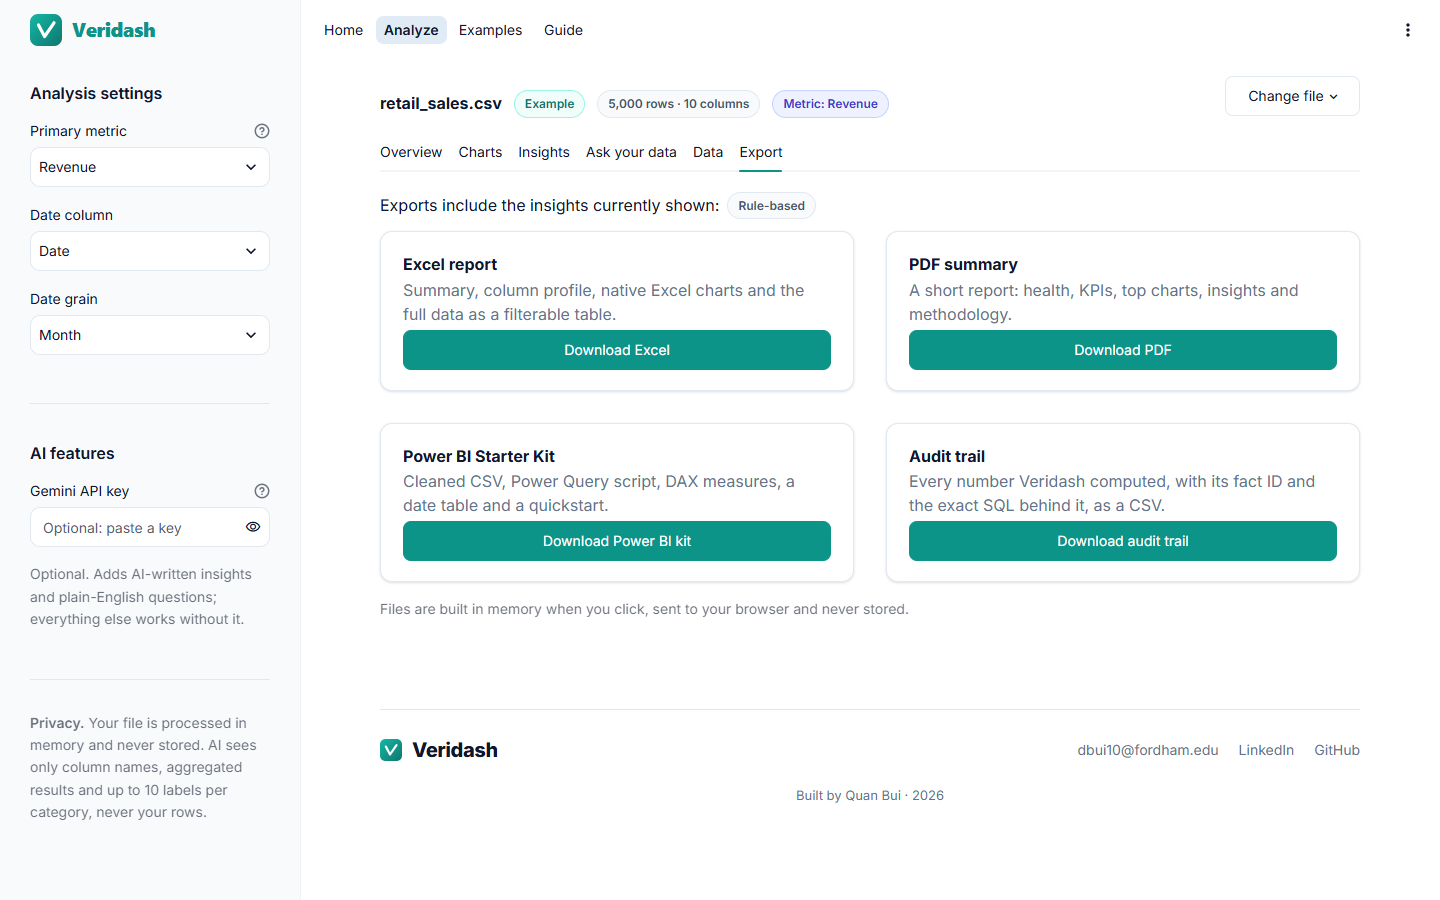
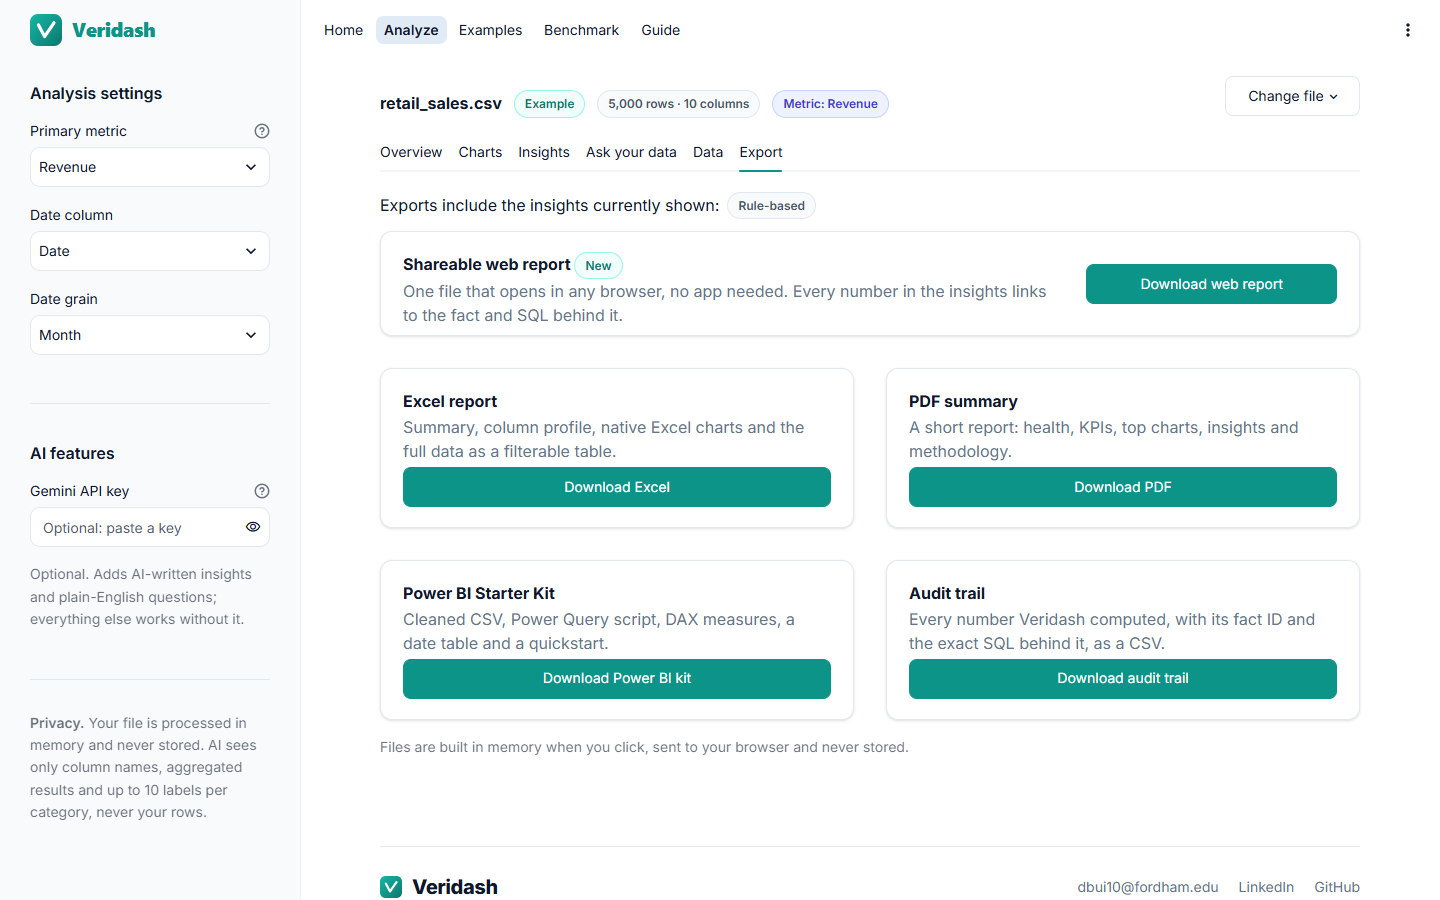
docs(readme): publish the trust benchmark scores and the web report
Adds the benchmark results table under Testing and quality, the direction
and group checks, the web report, the benchmark in the architecture
diagram, a design decision on measuring safeguards, and new screenshots.
Replaces the finished dark mode roadmap item.

diff --git a/README.md b/README.md
@@ -4,7 +4,9 @@
 
 Veridash turns a clean CSV or Excel file into a health check, a column profile, recommended charts and KPIs,
 written insights and ready-to-use exports in seconds. Every number is computed by code and shown next to the
-exact query that produced it, and any AI-written sentence is fact-checked against those results.
+exact query that produced it, and any AI-written sentence is fact-checked against those results. A public
+trust benchmark measures how well those checks work: the fact-check catches 96.0% of
+1,004 planted wrong numbers with 0 false alarms.
 
 **Live demo:** [veridash.streamlit.app](https://veridash.streamlit.app)
 
@@ -42,8 +44,8 @@ exports for Excel, PDF and Power BI. It is built on three pillars:
   fact-checked number by number.
 - **Private by design:** files are processed in memory and never stored, and the AI sees only the schema and
   aggregated statistics, never raw rows.
-- **Export to your tools:** results leave the app as an Excel report with native charts, a PDF summary or a
-  Power BI Starter Kit.
+- **Export to your tools:** results leave the app as a shareable web report, an Excel report with native
+  charts, a PDF summary or a Power BI Starter Kit.
 
 ## Goals
 
@@ -52,6 +54,7 @@ exports for Excel, PDF and Power BI. It is built on three pillars:
 - **Use AI only where it adds value,** for selecting and explaining facts, never for calculating them.
 - **Respect privacy by default** by keeping files in memory and sending only summaries to the AI.
 - **Hand off cleanly** to the tools analysts already use: Excel, PDF and Power BI.
+- **Measure the safeguards** instead of just describing them, and publish the results.
 
 ---
 
@@ -81,6 +84,8 @@ exports for Excel, PDF and Power BI. It is built on three pillars:
 - **Citations:** each statement cites the computed facts it relies on.
 - **Fact-check badge:** every number in the AI's text is matched to a computed fact, allowing for rounding, and
   the badge reports the result, for example "Verified numbers: 12/12". Unverified numbers are highlighted, not hidden.
+- **Direction and group checks:** a stated direction must be right ("rose 1.1%" fails for a fall), and a group's
+  number must belong to the group named next to it ("Electronics comes to $209.1K" fails when that is Apparel's).
 - **Eight languages:** AI insights can be written in English, Spanish, French, German, Portuguese, Italian, Dutch
   or Vietnamese. Numbers keep one format in every language, so the fact-check works the same way.
 - **Works without a key:** rule-based insights with the same structure are always available.
@@ -93,7 +98,9 @@ exports for Excel, PDF and Power BI. It is built on three pillars:
 - **Transparent results:** the SQL, the result table and an automatic chart are shown together.
 - **SQL mode:** without a key, users can write their own queries under the same safety rules.
 
-### Exports: Excel, PDF, the Power BI Starter Kit and an audit trail
+### Exports: a web report, Excel, PDF, the Power BI Starter Kit and an audit trail
+- **Shareable web report:** one HTML file that opens in any browser with no app, account or internet. It has
+  the KPIs, health check, charts and insights, and every verified number links to the fact and SQL behind it.
 - **Excel report:** a summary sheet, the column profile, one sheet per chart with a native Excel chart and its
   query, and the full dataset as a filterable table.
 - **PDF summary:** a two to four page report with the health score, KPIs, top charts, insights and methodology.
@@ -120,6 +127,8 @@ exports for Excel, PDF and Power BI. It is built on three pillars:
 | ![Recommended charts](docs/screenshots/charts.png) | ![Insights with verified numbers](docs/screenshots/insights.png) |
 | **Ask your data** | **Exports** |
 | ![Ask your data](docs/screenshots/ask.png) | ![Excel, PDF and Power BI exports](docs/screenshots/exports.png) |
+| **Trust benchmark** | **Shareable web report** |
+| ![Trust benchmark scores](docs/screenshots/benchmark.png) | ![Self-contained HTML report](docs/screenshots/web_report.png) |
 
 ## How it works
 
@@ -128,7 +137,7 @@ exports for Excel, PDF and Power BI. It is built on three pillars:
 3. **Explore the recommended charts and KPIs,** and open any of them to see how it was calculated.
 4. **Read the insights,** written by AI when a key is available or by rules otherwise, with every number checked.
 5. **Ask follow-up questions** in plain English or write your own query.
-6. **Export the results** to Excel, PDF or Power BI and continue the work in your usual tools.
+6. **Export the results** as a web report, or to Excel, PDF or Power BI, and continue in your usual tools.
 
 ## Architecture
 
@@ -136,8 +145,9 @@ Veridash is organised in four layers. The **interface** handles pages, navigatio
 **analysis engine** loads the file, detects column types, scores data health, and runs every calculation as
 SQL in an in-memory database that cannot read or write files. The **AI layer** receives only a "fact pack" of
 results the engine has already computed, writes insights or a query, and has every number in its output
-checked. The **exports** layer turns the same results into Excel, PDF and Power BI files without writing
-anything to disk.
+checked. The **exports** layer turns the same results into a web report and Excel, PDF and Power BI files
+without writing anything to disk. Alongside the app, a **trust benchmark** attacks the fact-check and the
+query guard and recomputes every headline number without SQL; it runs on every push.
 
 ```mermaid
 flowchart LR
@@ -150,9 +160,11 @@ flowchart LR
     F --> G
     G --> H[Streamlit interface]
     C --> H
-    H --> I[Excel · PDF · Power BI kit]
+    H --> I[Web report · Excel · PDF · Power BI kit]
     H --> J[Ask your data<br/>validated SQL]
     J --> C
+    K[Trust benchmark<br/>runs in CI] -.-> G
+    K -.-> J
 ```
 
 ## Key design decisions
@@ -168,6 +180,9 @@ flowchart LR
   personal and sensitive records private and keeps prompts small and fast.
 - **A Power BI kit instead of a .pbix.** The .pbix format cannot be generated reliably outside Power BI Desktop,
   so Veridash produces plain Power Query and DAX that any analyst can read, review and paste in minutes.
+- **Safeguards are measured, not just claimed.** The benchmark plants wrong numbers and harmful queries and
+  publishes how many are caught. Its first run caught 77.9% and exposed two blind spots, numbers given to the
+  wrong group and flipped signs, which led to the checks that now catch them.
 - **A transparent health score.** The score uses one published formula and one set of weights, shown in full in
   the Guide, so a grade can always be explained and challenged.
 
@@ -179,19 +194,20 @@ flowchart LR
 | Analysis engine | pandas, NumPy, DuckDB |
 | AI | Google Gen AI SDK with Gemini, structured JSON output |
 | Exports | xlsxwriter for Excel, fpdf2 and matplotlib for PDF, Power Query and DAX for Power BI |
-| Quality | pytest with Streamlit AppTest, Ruff |
+| Quality | pytest with Streamlit AppTest, Ruff, GitHub Actions, a deterministic trust benchmark |
 
 ## Project structure
 
 | Part | What it does |
 |---|---|
-| App entry point | Sets up the page, theme, navigation between the four pages and the site footer. |
-| Pages | Home (use cases and how Veridash differs), Analyze, Examples and Guide. |
+| App entry point | Sets up the page, theme, navigation between the five pages and the site footer. |
+| Pages | Home (use cases and how Veridash differs), Analyze, Examples, Benchmark and Guide. |
 | Analysis engine | Loads files, detects types, scores health, runs sandboxed SQL, picks charts and KPIs, builds the fact pack and writes rule-based insights. |
 | AI layer | Connects to Gemini, writes AI insights, fact-checks numbers and turns questions into validated SQL. |
-| Exports | Builds the Excel report, the PDF summary and the Power BI Starter Kit. |
+| Exports | Builds the web report, the Excel report, the PDF summary, the Power BI Starter Kit and the audit trail. |
 | Interface kit | The theme, chart styling and reusable components such as cards, badges and callouts. |
 | Sample data | Three synthetic datasets and the seeded script that generates them. |
+| Trust benchmark | Plants errors and harmful queries, recomputes numbers with pandas and publishes the scores. |
 | Tests | Automated checks for every module, every page and all three examples end to end. |
 | Documentation | Setup and deployment guide, architecture notes and design decisions. |
 
@@ -202,12 +218,32 @@ flowchart LR
 | File loading | CSV and Excel, encodings, delimiters, empty, headerless and oversized files |
 | Type detection and health | Every column type, currency and percent parsing, scoring formula, caps and grades |
 | Charts and KPIs | Every recommended query runs, returns data and matches an independent calculation |
-| Fact-checking | Verified, unverified and rounding cases, labels, years and dates |
+| Fact-checking | Verified, unverified and rounding cases, signs and directions, group labels, years and dates |
 | Query safety | Writes, multiple statements, file access and blocked functions are all rejected |
-| Exports | The Excel file opens with all sheets, the PDF has two to four pages, the Power BI kit has every file |
+| Exports | The Excel file opens with all sheets, the PDF has two to four pages, the Power BI kit has every file, the web report is self-contained and escaped |
 | App | Every page renders, all three examples run end to end without a key, and edge-case files do not break |
 
-All 217 automated tests pass on every push (GitHub Actions), and the codebase is lint-clean under Ruff.
+All 252 automated tests pass on every push (GitHub Actions), and the codebase is lint-clean under Ruff.
+
+### Trust benchmark
+
+The benchmark runs on the three example datasets with no randomness and no AI calls, and the build fails if
+its published results go out of date. The same scores are shown on the app's Benchmark page.
+
+| Check | Result |
+|---|---|
+| Planted wrong numbers caught by the fact-check | 964 of 1,004 (96.0%) |
+| Correct sentences wrongly flagged | 0 of 542 |
+| Near misses, such as $785.3K written as $785.6K | 223 of 234 caught |
+| Another group's number | 145 of 148 caught |
+| Flipped direction | 18 of 19 caught |
+| Harmful queries blocked by the query guard | 38 of 38 |
+| File, network and setting attacks blocked by the sandbox alone | 17 of 17 |
+| Harmless queries that still run | 25 of 25 |
+| Headline numbers matching an independent pandas recomputation | 214 of 214 |
+
+Every remaining miss is a wrong number that happens to equal another real figure in the same file, which no
+number check can tell apart.
 
 ## Roadmap
 
@@ -215,7 +251,7 @@ All 217 automated tests pass on every push (GitHub Actions), and the codebase is
 - **Joining related files,** such as orders and customers, with a guided key picker.
 - **Significance tests** for group differences, reported alongside the existing hypotheses.
 - **Saved analysis recipes** that re-run the same checks on next month's file.
-- **Dark mode and an accessibility review** of colors and keyboard navigation.
+- **Benchmark the AI itself:** measure how often Gemini's insights pass the fact-check across many files.
 
 ## Conclusion
 
@@ -227,6 +263,8 @@ numbers.
 Building it taught me how much of a tool's credibility comes from transparency. Showing the query behind each
 chart, publishing the health formula and flagging unverified numbers took more work than hiding them, but those
 choices are what make the results something I would be comfortable presenting to a manager or a client.
+Measuring my own fact-checker was the most humbling step: it missed whole kinds of errors I had assumed it
+caught, and fixing them made the tool better than any amount of reasoning about it would have.
 
 For setup and deployment instructions, see the [Setup Guide](docs/SETUP.md). For what changed in each version,
 see the [Changelog](CHANGELOG.md).
